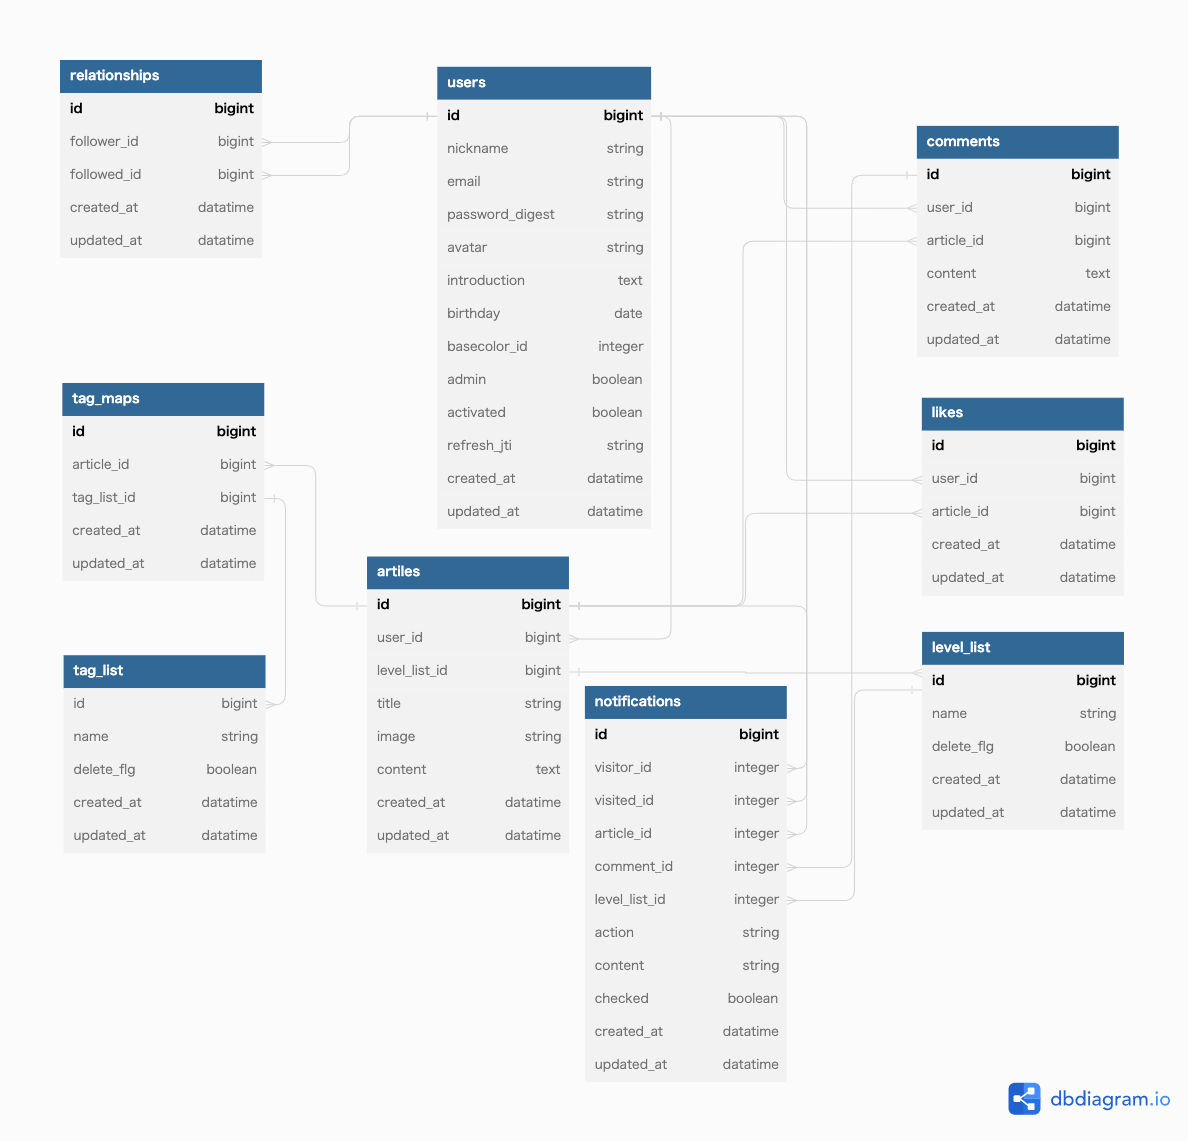
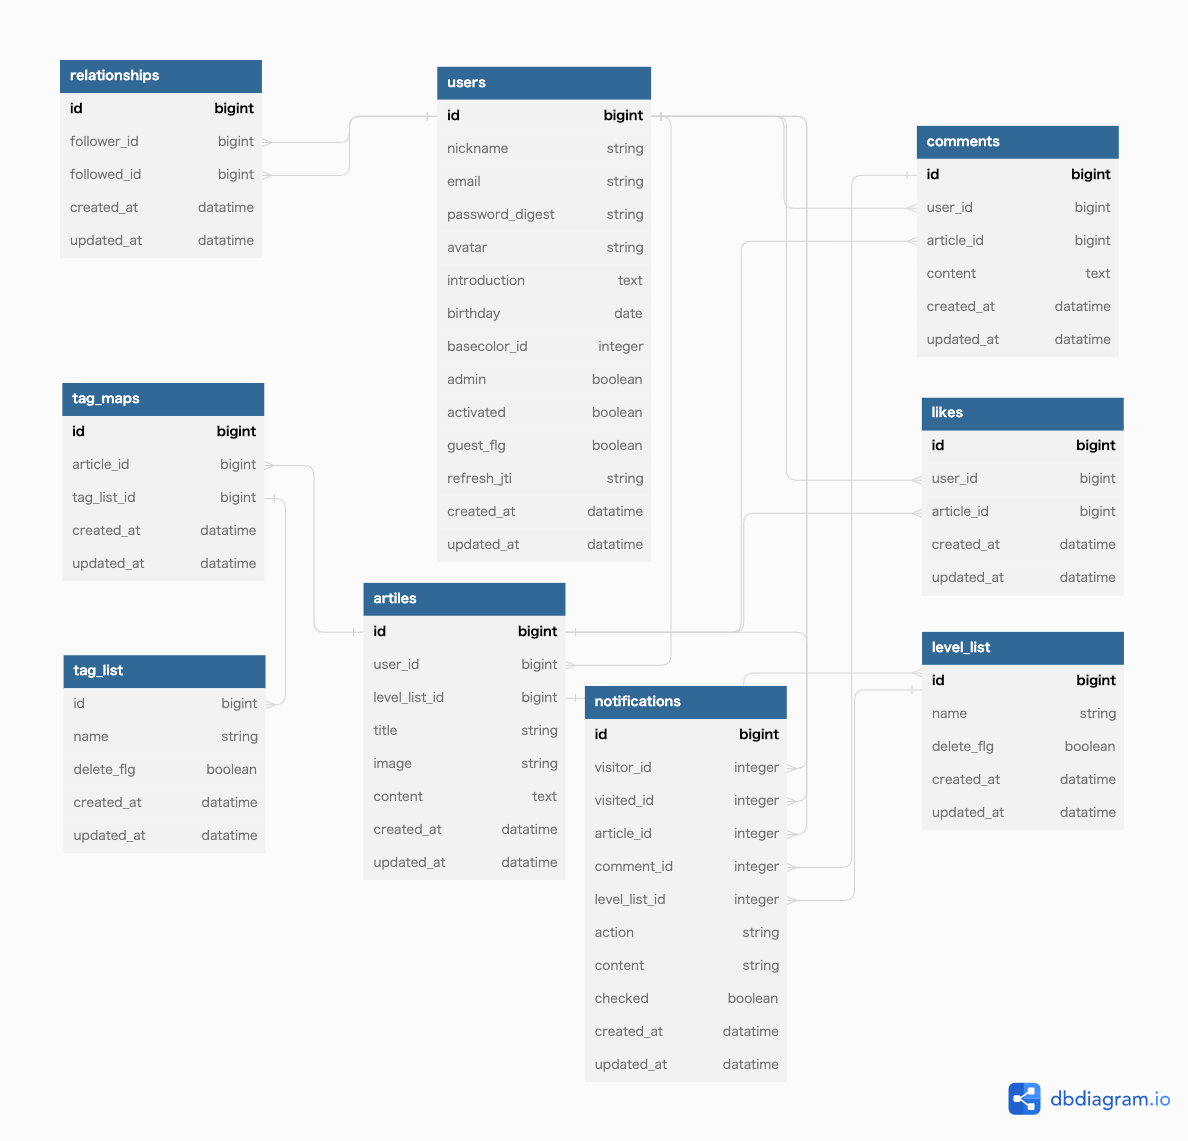
easy login code fix #69

Changed region(s): [[0.2803, 0.3681, 0.4983, 0.7669], [0.4983, 0.3681, 0.5295, 0.4294], [0.4983, 0.4601, 0.5295, 0.4908]]

diff --git a/frontend/pages/users/edit.vue b/frontend/pages/users/edit.vue
@@ -197,6 +197,9 @@
                             color="transparent"
                             flat
                         >
+                            <AppGuestUserErrMsg
+                                err-msg="※ゲストユーザーは変更できません"
+                            />
                             <v-form v-model="isValidEmail">
                                 <user-form-email
                                     :email.sync="email"
@@ -230,6 +233,9 @@
                             color="transparent"
                             flat
                         >
+                            <AppGuestUserErrMsg
+                                err-msg="※ゲストユーザーは変更できません"
+                            />
                             <v-form v-model="isValidPassword">
                                 <user-form-password
                                     :password.sync="password"
@@ -267,6 +273,7 @@ import UserFormEmail from '~/components/Atom/UserForm/UserFormEmail.vue'
 import UserFormPassword from '~/components/Atom/UserForm/UserFormPassword'
 import UserFormPasswordAgain from '~/components/Atom/UserForm/UserFormPasswordAgain'
 import AvatarImg from '~/components/Atom/App/AppAvatarImg.vue'
+import AppGuestUserErrMsg from '~/components/Atom/App/AppGuestUserErrMsg.vue'
 
 export default {
     name: 'UsersEdit',
@@ -275,6 +282,7 @@ export default {
         UserFormPassword,
         UserFormPasswordAgain,
         AvatarImg,
+        AppGuestUserErrMsg
     },
     async asyncData({ $axios, store}) {
         const res = await $axios.$get('/api/v1/users/edit')
@@ -379,6 +387,7 @@ export default {
         //     })
         // },
         async updateEmail() {
+            if ($auth.guestErrMsg('ゲストユーザーは変更できません')) return
             if(!this.isValidEmail || !this.email) {
                 return this.$my.dispatchToast(true, 'メールアドレスは必須です', 'error')
             }
@@ -400,6 +409,7 @@ export default {
             this.EmailLoading = false
         },
         async updatePassword() {
+            if ($auth.guestErrMsg('ゲストユーザーは変更できません')) return
             if(!this.isValidPassword) {
                 return this.$my.dispatchToast(true, 'パスワードは必須です', 'error')
             }

diff --git a/frontend/pages/about/index.vue b/frontend/pages/about/index.vue
@@ -16,6 +16,43 @@
                         それがbestpra
                     </span>
                 </div>
+                <div
+                    class="main-button text-center mobile-and-down"
+                >
+                    <v-row
+                        align="center"
+                        justify="space-around"
+                    >
+                        <v-btn
+                            v-if="!$auth.loggedIn()"
+                            color="accent"
+                            class="px-8"
+                            large
+                            elevation="13"
+                            rounded
+                            @click="$auth.guestUserLogin()"
+                        >
+                            ゲストログイン!!
+                            <v-icon right>
+                                mdi-account-arrow-right
+                            </v-icon>
+                        </v-btn>
+                        <v-btn
+                            v-if="$auth.loggedIn()"
+                            color="accent"
+                            class="pl-8"
+                            large
+                            elevation="13"
+                            rounded
+                            to="/home/all" nuxt
+                        >
+                            練習メニュを開く
+                            <v-icon right>
+                                mdi-book-open-variant
+                            </v-icon>
+                        </v-btn>
+                    </v-row>
+                </div>
             </div>
         </div>
         <v-container

diff --git a/frontend/plugins/auth.js b/frontend/plugins/auth.js
@@ -87,6 +87,37 @@ class Authentication {
     loggedIn () {
         return this.isExistUser() && this.isAuthenticated()
     }
+
+    // ゲストユーザーか判定
+    guestUser() {
+        return this.user.guestFlg === true
+    }
+
+    // ゲストユーザーで対応できない処理の場合、エラー内容を返す
+    guestErrMsg(msg) {
+        if(this.guestUser()){
+            this.$my.dispatchToast(true, msg, 'error')
+            return true
+        }
+        return false
+    }
+
+    // ゲストユーザーでログイン
+    async guestUserLogin() {
+        if (this.guestUser() || !this.loggedIn()) {
+            const msg = 'ログイン済みです!!'
+            const type = 'info'
+        } else {
+            await this.$axios.$post(
+                '/api/v1/auth_token/ç',
+                { validateStatus: status => this.resolveUnauthorized(status)}
+            )
+            const msg = 'ゲストユーザーでログインしました!!'
+            const type = 'success'
+        }
+        this.$router.push('/home/all')
+        return this.$my.dispatchToast(true, msg, type)
+    }
 }
 
 export default ({ store, $axios }, inject) => {

diff --git a/frontend/pages/auth/signin.vue b/frontend/pages/auth/signin.vue
@@ -1,5 +1,26 @@
 <template>
     <user-form-card >
+        <div class="text-center">
+            <v-btn
+                :loading="guestLoading"
+                block
+                class="white--text"
+                color="primary"
+                outlined
+                @click="$auth.guestUserLogin()"
+            >
+                まずはお試し(ゲストログイン)
+            </v-btn>
+        </div>
+
+        <div
+            class="my-5"
+            style="width: 80%;"
+        >
+            <v-divider />
+        </div>
+
+
         <template #user-form-card-content>
             <v-form
                 ref="form"
@@ -58,6 +79,7 @@ export default {
         return {
             isValid: false,
             loading: false,
+            guestLoading: false,
             // params: { auth: { email: 'user0@example.com', password: 'password'} },
             params: { auth: { email: '', password: ''} },
         }

diff --git a/frontend/components/Atom/App/AppGuestUserErrMsg.vue b/frontend/components/Atom/App/AppGuestUserErrMsg.vue
@@ -1,0 +1,22 @@
+<template>
+    <p v-if="$auth.guestUser()">
+        <v-alert
+            border="left"
+            color="pink darken-1"
+            dark
+        >
+            {{ errMsg }}
+        </v-alert>
+    </p>
+</template>
+
+<script>
+export default {
+    props: {
+        errMsg: {
+            type: String,
+            default: ''
+        }
+    }
+}
+</script>

diff --git a/backend/app/models/user.rb b/backend/app/models/user.rb
@@ -83,6 +83,20 @@ class User < ApplicationRecord
     # scope
     # default_scope -> { order(created_at: :desc) }
 
+    # ゲストユーザー作成
+    def self.guest
+        email = "aaa#{rand(1..1000)}@aaa.com"
+        while User.exists?(email: email)
+            email = "aaa#{rand(1..1000)}@aaa.com"
+        end
+        user = User.new(
+            email: email,
+            password: SecureRandom.urlsafe_base64,
+            nickname: "ゲストユーザー",
+            activated: true
+            guest_flg: true
+        )
+    end
 
     # ユーザをフォローする
     def follow(other_user)
@@ -152,7 +166,7 @@ class User < ApplicationRecord
     # 呼び出し元でカスタムできるようにmergeを指定 => merge(sub: "sub")とするとHashにsubが追加される
     # with_indifferent_access => Railsのメソッド => hashのキーをシンボルでも文字列でも取得できるようにする
     def response_json(payload = {})
-        as_json(only: [:id, :nickname, :avatar, :admin, :introduction]).merge(payload).with_indifferent_access
+        as_json(only: [:id, :nickname, :avatar, :admin, :introduction, :guest_flg]).merge(payload).with_indifferent_access
     end
 
     # 自身で書いた記事か判定

diff --git a/backend/app/controllers/api/v1/auth_token_controller.rb b/backend/app/controllers/api/v1/auth_token_controller.rb
@@ -34,13 +34,24 @@ class Api::V1::AuthTokenController < ApplicationController
         render json: login_response
     end
 
+    def guest
+        # TODO ゲストアクション作成 新規emailと新規パスワードを発行する
+        user = User.guest
+        if user.save!
+            set_refresh_token_to_cookie
+            render json: login_response
+        else
+            render @user.errors.full_messages
+        end
+    end
+
     # リフレッシュ
     def refresh
         @user = session_user
         # 自動更新しない  => リフレッシュトークンの有効期限で再ログインを強制する場合は下記をコメントアウト
         # 自動更新する => 下記を実装して都度リフレッシュトークンを更新する
-        # TODO テストがうまくいっている時点でNuxt側に問題あり？
-        set_refresh_token_to_cookie
+        # ゲストユーザーはリフレッシュトークンを更新しない
+        set_refresh_token_to_cookie if current_user.guest_flg == false
         render json: login_response
     end
 

diff --git a/backend/config/routes.rb b/backend/config/routes.rb
@@ -41,6 +41,7 @@ Rails.application.routes.draw do
       resources :auth_token, only:[:create, :destroy] do
         # delete :destroy, on: :collection
         post :login, on: :collection
+        post :guest, on: :collection
         post :refresh, on: :collection
         delete :logout, on: :collection
         patch :update_email, on: :collection
